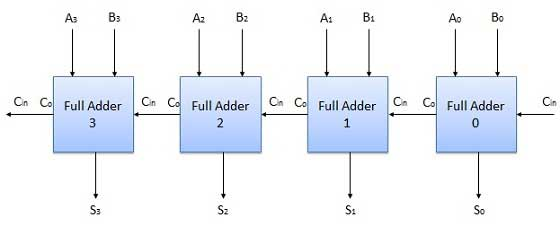
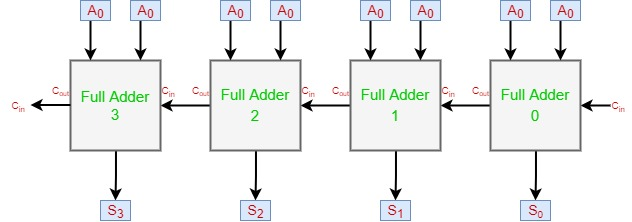
Fix plagiarism in 'Combinational Logic' page
Fixed plagiarism for text, and replaced new images by plagiarised images,
in the following pages:
* Combinational Logic
* Half Adder
* Full Adder
* Half Subtractors
* Full Subtractors
* N-Bit Parallel Adder & Subtractor

Changed region(s): [[0.0, 0.0, 1.0, 1.0]]

diff --git a/docs/Combinational/N-Bit Parallel Adder & Subtractor.md b/docs/Combinational/N-Bit Parallel Adder & Subtractor.md
@@ -9,16 +9,10 @@ nav_order: 5
 # N-Bit Parallel Adder
 {: .no_toc }
 
-The Full Adder is capable of adding only two single digit binary number along with a carry input. 
-But in practical we need to add binary numbers which are much longer than just one bit. To add two n-bit binary numbers we need to use the n-bit parallel adder. 
-It uses a number of full adders in cascade. 
-The carry output of the previous full adder is connected to carry input of the next full adder.
+The Full Adder can only add 2 single bit binary numbers with a carry input,but for practical uses, we must be able to add more than just a single binary number. To add only 2 n-bit binary numbers, the n-bit parallel adder can be implemented, for calculation it cascades a number of Full Adders. The carry-output one Full Adder is connected to the next Full Adder's carry-input.
 
 ## 4 Bit Parallel Adder
-In the block diagram, A0 and B0 represent the LSB of the four bit words A and B. 
-Hence Full Adder-0 is the lowest stage. 
-Hence its Cin has been permanently made 0. 
-The rest of the connections are exactly same as those of n-bit parallel adder is shown in fig. The four bit parallel adder is a very common logic circuit.
+In the below block diagram, B0 and A0 represent the LSB(Least Significant Bit) of the 4 bit variables A and B, hence Full Adder(0) is the lowest stage, and its C-in is permanently made 0. Other than these, the remaining connections are same as that of N-bit parallel adder, as shown in figure. This is a very commonly used logic circuit.
 
 ## Block Diagram
 
@@ -28,16 +22,13 @@ The rest of the connections are exactly same as those of n-bit parallel adder is
 # N-Bit Parallel Subtractor
 {: .no_toc }
 
-The subtraction can be carried out by taking the 1's or 2's complement of the number to be subtracted. 
-For example we can perform the subtraction (A-B) by adding either 1's or 2's complement of B to A. 
-That means we can use a binary adder to perform the binary subtraction.
+The subtraction of binary numbers can be done by using 1's/2's complement on the numbers which should be subtracted. For an example: We can subtract ( B - A ) by adding the 1's/2's complement of A to B. 
+Therfore, we can use the Binary Adder to perform Binary Subration
 
 
 ## 4 Bit Parallel Subtractor
-The number to be subtracted (B) is first passed through inverters to obtain its 1's complement. 
-The 4-bit adder then adds A and 2's complement of B to produce the subtraction. 
-S3 S2 S1 S0 represents the result of binary subtraction (A-B) and carry output Cout represents the polarity of the result. 
-If A > B then Cout = 0 and the result of binary form (A-B) then Cout = 1 and the result is in the 2's complement form.
+Firstly the number to be subtracted, i.e., (A) is passed into inverters(finding the complement) to find its 1's complement. Then the 4-bit adder adds B and 2's complement of A to complete the subtraction. S0, S1, S2, S3 represent the OUTPUT of binary subtraction( B - A ), and the the polarity of the result is  represented by carry-output(C-out).
+If B > A then, C-out = 0, if the OUTPUT of binary forms ( B - A ) then C-out = 1, and the OUTPUT is in the form of 2's complement.
 
 
 ## Block Diagram

diff --git a/docs/Combinational/combinational.md b/docs/Combinational/combinational.md
@@ -9,20 +9,19 @@ permalink: /docs/combinational
 {: .no_toc }
 
 
-Combinational circuits consist of Logic gates. These circuits operate with binary values. The output(s) of combinational circuit depends on the combination of present inputs. The following figure shows the **block diagram** of combinational circuit.
+Combinational circuits are made up of different Logic gates. These circuits are operated with the help of binary values. The output(s) of these circuits depend on the values of the given input at that time. Given below is the **block diagram** of Combinational circuit. 
 
 <div style="text-align:center"><img src="../../assets/images/combinational1.jpg" /></div>
 
-This combinational circuit has ‘n’ input variables and ‘m’ outputs. Each combination of input variables will affect the output(s).
+The above Combinational circuit has 'n' number of input variables, and ‘m’ number outputs. The output(s) is affected by input variables of each combination. 
 
+## Procedure of Designing Combinational Circuits
 
-## Design procedure of Combinational circuits
-
-1.  Find the required number of input variables and outputs from given specifications.   
-1.  Formulate the Truth table. If there are ‘n’ input variables, then there will be 2n possible combinations. For each combination of input, find the output values.   
-1.  Find the Boolean expressions for each output. If necessary, simplify those expressions.   
-1.  Implement the above Boolean expressions corresponding to each output by using Logic gates.
+1.  Determine the required number of input variables and output variables as per the desired output.
+1.  Derive the Truth table. The total possible combinations for 'n' number of input variables is equal '2n'. Find the output value, for every combination of input.   
+1.  The boolean expression for each output is found. Simplify the expressionss if needed.   
+1.  The above simplified boolean expressions are used, corresponding to its output by the use of Logic gates.
    
    
-We're going to elaborate few important combinational circuits as follows.
+Now, we're elaborating a few more important Combinational circuits as follows-  
 

diff --git a/docs/Combinational/full_sub.md b/docs/Combinational/full_sub.md
@@ -1,6 +1,6 @@
 ---
 layout: default
-title: Full Subtractors
+title: Full Subtractor
 parent: Combinational Logic
 nav_order: 4
 ---
@@ -8,18 +8,31 @@ nav_order: 4
 # Full Subtractors
 {: .no_toc }
 
-The disadvantage of a half subtractor is overcome by full subtractor. 
-The full subtractor is a combinational circuit with three inputs A,B,C and two output D and C'. 
-A is the 'minuend', B is 'subtrahend', C is the 'borrow' produced by the previous stage, D is the difference output and C' is the borrow output.
+A full subtractor is a Combinational logic circuit made to overcome the disadvantage of half subtractor, with input of 3 single bit binary numbers, it is used for the subraction of 2 single bit binary numbers is subtracted from a higher 1 single bit binary number, it gives 2 outputs called **difference** and **borrow**.
+
+Lets assume 3 single bit binary numbers as 'A', 'B', 'C'(Borrow produced in th previous stage), whose outputs are difference denoted by '(A-B-C)' or 'D', and thr borrow output is '(C')'. 
 
 ## Truth Table
 {: .no_toc }
 
-<div style="text-align:center"><img src="../../assets/images/fullsubstrator_truthtable.jpg" /></div>
+* Inputs: A, B, C
+* Outputs: (A-B-C), C'
+
+|    A    |    B    |    C    | (A-B-C) |    C'   |
+|:-------:|:-------:|:-------:|:-------:|:-------:|
+|    0    |    0    |    0    |    0    |    0    |
+|    0    |    0    |    1    |    1    |    1    |
+|    0    |    1    |    0    |    1    |    1    |
+|    0    |    1    |    1    |    0    |    1    |
+|    1    |    0    |    0    |    1    |    0    |
+|    1    |    0    |    1    |    0    |    0    |
+|    1    |    1    |    0    |    0    |    0    |
+|    1    |    1    |    1    |    1    |    1    |
+
 
 ## Circuit Diagram
 {: .no_toc }
 
-<div style="text-align:center"><img src="../../assets/images/fullsubstrator_circuitdiagram.jpg" /></div>
+<div style="text-align:center"><img src="../../assets/images/fullsubtractor_circuitdiagram.jpg" /></div>
 
 <iframe width="100%" height="400px" src="https://circuitverse.org/simulator/embed/12119" id="projectPreview" scrolling="no" webkitAllowFullScreen mozAllowFullScreen allowFullScreen> </iframe>

diff --git a/docs/Combinational/half_sub.md b/docs/Combinational/half_sub.md
@@ -1,6 +1,6 @@
 ---
 layout: default
-title: Half Subtractors
+title: Half Subtractor
 parent: Combinational Logic
 nav_order: 3
 ---
@@ -8,18 +8,26 @@ nav_order: 3
 # Half Subtractors
 {: .no_toc }
 
-Half subtractor is a combination circuit with two inputs and two outputs (difference and borrow). 
-It produces the difference between the two binary bits at the input and also produces an output (Borrow) to indicate if a 1 has been borrowed. 
-In the subtraction (A-B), A is called as Minuend bit and B is called as Subtrahend bit.
+A half subtractor is a Combinational logic circuit with input of 2 single bit binary numbers, it is used for the subtraction of 2 single bit binary numbers, it gives an output The 2 single bit binary numbers are called **Minuend** and **Subtrahend** and it gives 2 outputs namely **difference** and **borrow**.
+
+Lets assume 2 single bit binary numbers as 'A' and 'B', whose outputs are difference denoted by '(A-B)', and 'borrow'.  
 
 ## Truth Table
 {: .no_toc }
 
-<div style="text-align:center"><img src="../../assets/images/halfsubstrator_truthtable.jpg" /></div>
+* Inputs: A, B
+* Outputs: (A-B), Borrow
+
+|    A    |    B    |  (A-B)  |  Borrow |
+|:-------:|:-------:|:-------:|:-------:|
+|    0    |    0    |    0    |    0    |
+|    0    |    1    |    1    |    1    |
+|    1    |    0    |    1    |    0    |
+|    1    |    1    |    0    |    0    |
 
 ## Circuit Diagram
 {: .no_toc }
 
-<div style="text-align:center"><img src="../../assets/images/halfsubstrator_circuitdiagram.jpg" /></div>
+<div style="text-align:center"><img src="../../assets/images/halfsubtractor_circuitdiagram.jpg" /></div>
 
 <iframe width="100%" height="400px" src="https://circuitverse.org/simulator/embed/12120" id="projectPreview" scrolling="no" webkitAllowFullScreen mozAllowFullScreen allowFullScreen> </iframe>

diff --git a/docs/Combinational/full_adder.md b/docs/Combinational/full_adder.md
@@ -8,10 +8,9 @@ nav_order: 2
 # Full Adder
 {: .no_toc }
 
-Full adder is developed to overcome the drawback of Half Adder circuit. 
-It can add two one-bit numbers A and B, and carry c. 
-The full adder is a three input and two output combinational circuit.
+A full adder is a Combinational logic circuit made to overcome the disadvantage of half adder, with input of 3 single bit binary numbers, it is used for the addition of 3 single bit binary numbers, it gives 2 outputs called **sum** and **carry-out**.
 
+Lets assume 3 single bit binary numbers as 'A', 'B', and 'C-in'(carry-in) whose sum and carry-out are 'S' and 'C-out' respectively. 
 
 
 ## Block Diagram
@@ -23,7 +22,19 @@ The full adder is a three input and two output combinational circuit.
 ## Truth Table
 {: .no_toc }
 
-<div style="text-align:center"><img src="../../assets/images/fulladder_truthtable.jpg" /></div>
+* Inputs: A, B, C-in
+* Outputs: S, C-out
+
+|    A    |    B    |   C-in  |    S    |  C-out  |
+|:-------:|:-------:|:-------:|:-------:|:-------:|
+|    0    |    0    |    0    |    0    |    0    |
+|    0    |    0    |    1    |    1    |    0    |
+|    0    |    1    |    0    |    1    |    0    |
+|    0    |    1    |    1    |    0    |    1    |
+|    1    |    0    |    0    |    1    |    0    |
+|    1    |    0    |    1    |    0    |    1    |
+|    1    |    1    |    0    |    0    |    1    |
+|    1    |    1    |    1    |    1    |    1    |
 
 ## Circuit Diagram
 {: .no_toc }

diff --git a/docs/Combinational/half_adder.md b/docs/Combinational/half_adder.md
@@ -8,10 +8,9 @@ nav_order: 1
 # Half Adder
 {: .no_toc }
 
-Half adder is a combinational logic circuit with two inputs and two outputs. 
-The half adder circuit is designed to add two single bit binary number A and B. 
-It is the basic building block for addition of two single bit numbers. 
-This circuit has two outputs **carry** and **sum**.
+A half adder is a Combinational logic circuit with input of 2 single bit binary digits, it is used for the addition of 2 single bit binary digits. The 2 single bit binary digits are called **augend** and **addend** and it gives 2 outputs namely **sum** and **carry**.
+
+Lets assume 2 single bit binary digits as 'A' and 'B', whose sum and carry are 'S' and 'C' respectively. 
 
 
 
@@ -24,7 +23,15 @@ This circuit has two outputs **carry** and **sum**.
 ## Truth Table
 {: .no_toc }
 
-<div style="text-align:center"><img src="../../assets/images/halfadder_truthtable.jpg" /></div>
+* Inputs: A, B
+* Outputs: S, C
+
+|    A    |    B    |    s    |    C    |
+|:-------:|:-------:|:-------:|:-------:|
+|    0    |    0    |    0    |    0    |
+|    0    |    1    |    1    |    0    |
+|    1    |    0    |    1    |    0    |
+|    1    |    1    |    0    |    1    |
 
 ## Circuit Diagram
 {: .no_toc }
